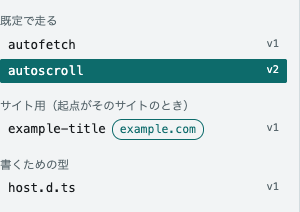
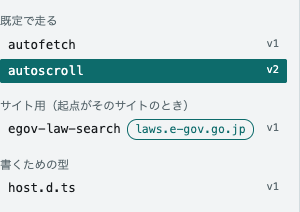
feat!: 代役のサイト用スクリプトを本物の egov-law-search に。docs は絵を代役で撮ったと書く (#43)
* feat!: 代役のサイト用スクリプトを本物の egov-law-search に（見本の example-title を消す）

代役（サンドボックス）だけに在った見本 example-title（札 example.com）で docs の絵を撮っていたので、
7080 で同じ起点を書いても出なかった。capture-scripts v0.4.0 の egov-law-search（札 laws.e-gov.go.jp）を
sandbox/catalog に写し、代役のスクリプトを全部 capture-scripts の写しにする（autofetch・autoscroll・
host.d.ts の写しも v0.4.0 とバイト列が同じ。egov-law-search の sha256 は本物の台帳の v1 と同じ
c9bc043c…）。sandbox/sites は無くなる。

- 台本の catalog と注記、代役の注記
- 試験（sandbox・start）の札の例を laws.e-gov.go.jp に。ポートを見ない・完全一致（www.e-gov.go.jp は別の
  ホスト）の確かめは同じ形のまま
- 撮る道具の start の絵の起点を https://laws.e-gov.go.jp/ に。全部撮り直して変わったのは start と scripts

反証: 代役の札を other.invalid にすると、試験が 5 本赤（scripts を省いた既定・一覧の口・既定の顔ぶれ・
合わない名指しの 400・既定が空の 400）。戻して 40 本とも緑。

Claude-Session: https://claude.ai/code/session_011kE2dP25YBdBgTbk1xgCeD

* docs: 「画面」の絵は代役で撮ったと書き、サイト用スクリプトの例を egov-law-search に

- 画面（ja・en）: 冒頭に、絵は代役（サンドボックス）を相手に撮っていて、代役のスクリプトは capture-scripts の
  写し（autoscroll v2 だけが代役の版）と 1 段落。札の例・理由の文・絵の alt を laws.e-gov.go.jp に。サイト用の
  スクリプトの見本（e-Gov 法令検索で法令名を「セキュリティ」で検索する）と、起点の書き方を 1 段落
- 開発（ja・en）: 代役の表の写しの出どころを capture-scripts v0.4.0 に、sandbox/sites と example-title を消す

Claude-Session: https://claude.ai/code/session_011kE2dP25YBdBgTbk1xgCeD

---------

Changed region(s): [[0.18, 0.5377, 0.87, 0.6792], [0.03, 0.5943, 0.15, 0.6509]]

diff --git a/sandbox/catalog/egov-law-search.ts b/sandbox/catalog/egov-law-search.ts
@@ -1,0 +1,62 @@
+/**
+ * e-Gov 法令検索 (`laws.e-gov.go.jp`) で法令名を検索し、答えの件数と法令名を報告する。
+ * サイト用のスクリプトの見本で、札は `laws.e-gov.go.jp` (`catalog.json`)。
+ *
+ * 頁は Vue の SPA で、読み込みの直後には検索窓がまだ無い —— 描かれるまで待つ。「検索」のボタンは
+ * `type="button"` で、押しても文書は替わらない (答えは `/internal-api/SelectLaw.json` から引き、
+ * 頁の中で `/result` に切り替わる)。取り込む文書は起点の頁のまま —— JS で頁を移ると、去った
+ * 文書は本文の無い応答として archive に残る。
+ *
+ * 設定は `__bh.opts["egov-law-search"]` から: query (既定 "セキュリティ") / waitMs (待つ上限。既定 10000)
+ */
+(async () => {
+  // 決まりはクロールの単位なので、リンクを辿って別のホストへ出た頁でも走る
+  if (location.hostname !== "laws.e-gov.go.jp") return;
+  const id = "egov-law-search";
+  const opts = globalThis.__bh.opts[id] ?? {};
+  const query = String(opts.query ?? "セキュリティ");
+  const waitMs = Number(opts.waitMs ?? 10000);
+  const sleep = (ms: number) => new Promise<void>((resolve) => setTimeout(resolve, ms));
+
+  /** find が null 以外を返すまで 100 ms ごとに見る。待つ上限か予算が尽きたら null */
+  const waitFor = async <T>(find: () => T | null): Promise<T | null> => {
+    const until = Date.now() + waitMs;
+    for (;;) {
+      const found = find();
+      if (found !== null) return found;
+      if (Date.now() > until || globalThis.__bh.remainingMs < 500) return null;
+      await sleep(100);
+    }
+  };
+
+  // 検索窓 (法令名) とボタン。Vue が描くまで待つ
+  const box = await waitFor(() =>
+    document.querySelector<HTMLInputElement>('form[role="search"] input.searchfield'),
+  );
+  const button = document.querySelector<HTMLButtonElement>('form[role="search"] button.searchbutton');
+  if (box === null || button === null) {
+    globalThis.__bh.report(id, { query, searched: false, why: "検索窓が無い" });
+    return;
+  }
+  // Vue の v-model は input の出来事で値を読む。value を替えるだけでは届かない
+  box.value = query;
+  box.dispatchEvent(new Event("input", { bubbles: true }));
+  button.click();
+
+  // 答え: <h1 class="numberofresults"> 検索結果: <strong>4</strong> 件 </h1> と a.lawtitle。/result に
+  // 切り替わった時点では <strong> が空で描かれ、答えが届くと数が入る (2026-10-29 に測って約 2 秒後)
+  const count = await waitFor(() => {
+    const strong = document.querySelector("h1.numberofresults strong");
+    return strong !== null && /\d/.test(strong.textContent ?? "") ? strong : null;
+  });
+  const laws = Array.from(
+    document.querySelectorAll("a.lawtitle"),
+    (a) => a.textContent?.replace(/\s+/g, " ").trim() ?? "",
+  );
+  globalThis.__bh.report(id, {
+    query,
+    searched: count !== null,
+    hits: count === null ? 0 : Number(count.textContent?.replace(/,/g, "") ?? 0),
+    laws: laws.slice(0, 5),
+  });
+})();

diff --git a/docs-site/src/content/docs/ja/development.md b/docs-site/src/content/docs/ja/development.md
@@ -87,10 +87,10 @@ dashboard が読む設定は `sandbox/sandbox.env` だけで、あなたの `.en
 | --- | --- |
 | 見せるものを変える | 台本を書き換える。代役は要求のたびに読むので、起こし直さずに画面に出る |
 | 台帳にスクリプトが無いときを見る | 台本の `"emptyCatalog"` を `true` にする。スクリプトの画面には受け皿の型だけが残る |
-| スクリプトを変える | 台本の `catalog` を書き換える。1 版に 1 つで、`sandbox/catalog/` のファイル（capture-scripts v0.2.1 のスクリプトと受け皿の型の写し）を名指す。`sha256` と `bytes` は代役が台帳と同じくファイルから数え、一覧は有効な各 id の最新版。autoscroll v2 は同じファイルで `options` だけが違う版。`sites`（札）のある版はサイト用のスクリプトで、既定で走るのは起点のどれかが札のホストにあるときだけ。見本の `example-title`（札 `example.com`）のファイルは `sandbox/sites/` に在る（capture-scripts には無い）。`hostTypes` は受け皿の型で、消すと型を取り込んでいない台帳になる。写しは `check:terms` から外してある（別の repo の言葉で、直すと行番号が実物とずれる） |
+| スクリプトを変える | 台本の `catalog` を書き換える。1 版に 1 つで、`sandbox/catalog/` のファイル（capture-scripts v0.4.0 のスクリプトと受け皿の型の写し）を名指す。`sha256` と `bytes` は代役が台帳と同じくファイルから数え、一覧は有効な各 id の最新版。autoscroll v2 は同じファイルで `options` だけが違う版。`sites`（札）のある版はサイト用のスクリプトで、既定で走るのは起点のどれかが札のホストにあるときだけ。`egov-law-search`（札 `laws.e-gov.go.jp`）も capture-scripts の写しで、本物の台帳と同じ版。`hostTypes` は受け皿の型で、消すと型を取り込んでいない台帳になる。写しは `check:terms` から外してある（別の repo の言葉で、直すと行番号が実物とずれる） |
 | 別の WACZ を並べる | `SANDBOX_WACZ_DIR=<dir> npm run sandbox`（相対なら、この repo から。例: `../wacz-validator/samples`）。代役と daemon の両方に同じ置き場が入る |
 | wacz-validator の更新を daemon に入れる | `npm run sandbox:build`。`npm run sandbox` は、image が無いときにしか建てない |
-| 新しいクロールの画面を試す | 新しいクロールの画面から始める。代役は受けた行を台本の `submit.runsSeconds` 秒だけ走らせてから完走にする。走っている間にもう 1 度押すと 409、読めない URL は 400。走らせるもの（スクリプトのチェックとその場の JS）も台帳と同じ形で受け、知らないスクリプトの id・同じ id の重ね・名前の綴り・起点に合わないサイト用のスクリプトの名指し・既定が空（台帳にスクリプトが無いか、全部が別のサイト用）は台帳と同じ文で 400。行を開くと走らせたものが出る。チェックの横の「読む」は右の列に開く（代役の autoscroll は v2 で設定つき、example-title は起点に example.com が無いと押せないが読める） |
+| 新しいクロールの画面を試す | 新しいクロールの画面から始める。代役は受けた行を台本の `submit.runsSeconds` 秒だけ走らせてから完走にする。走っている間にもう 1 度押すと 409、読めない URL は 400。走らせるもの（スクリプトのチェックとその場の JS）も台帳と同じ形で受け、知らないスクリプトの id・同じ id の重ね・名前の綴り・起点に合わないサイト用のスクリプトの名指し・既定が空（台帳にスクリプトが無いか、全部が別のサイト用）は台帳と同じ文で 400。行を開くと走らせたものが出る。チェックの横の「読む」は右の列に開く（代役の autoscroll は v2 で設定つき、egov-law-search は起点に laws.e-gov.go.jp が無いと押せないが読める） |
 | 規則を試す | 新しいクロールの画面で「リンクを辿る」を選ぶ。代役は台帳 v0.62.0 と同じく規則を確かめる（同じ 3 つの 400 を同じ文で、`/api/crawl-rules/check` も同じ答え）し、`/api/crawls/:id/decisions` にも答える。台本のクロール `5b0c0007` は `rules`・`decisions`・`robots` を持ち、1 度も当たらない規則が 1 本ある。**`same-site` は近似**: 代役は Public Suffix List を持たず、ホスト名の最後の 2 ラベルをサイトとする。だから `example.co.jp` と `other.co.jp` を同じサイトと読む（台帳は tldts で、そう読まない） |
 | 走らせたものの在る行を見る | 台本のクロールに `scripts` を書く（その場の物は `inline` つき）。同梱の台本には、その場の JS で完走した行と、compile の段で落ちた行が在る。代役も台帳と同じく、1 本の詳しい所には source を載せず、「欄に戻す」は名前の口（`/api/crawls/:id/inline/:name`）から取る。クロール `5b0c0008` の autoscroll の `sha256` はわざと台帳の v1 と違えてあり、版の番号が使い回されたときに、クロールの「読む」が出す知らせを見られる |
 

diff --git a/docs-site/src/content/docs/screens.md b/docs-site/src/content/docs/screens.md
@@ -9,6 +9,10 @@ what you are reading). The contents tab only appears once you
 enter it with 開く (open) on an archive row. The dashboard itself is in Japanese; the tab names are
 クロール, 新しいクロール, アーカイブ, スクリプト and 中身.
 
+The pictures on this page are taken against the stand-in ledger (the
+[sandbox](/development/#opening-the-dashboard-in-the-sandbox)). Its scripts are copies from capture-scripts,
+the same ones a real ledger lists; only autoscroll v2 is the stand-in's own version, there to show version chips.
+
 ![The tabs at the top: クロール, 新しいクロール, アーカイブ and スクリプト, with 新しいクロール selected](../../assets/screens/tabs.webp)
 
 | View | What it lists |
@@ -65,7 +69,7 @@ WACZ files and the time taken. "run ↗" at the right end opens the Windmill run
   version the crawl ran, and scripts written in the form marked その場 (written on the spot) with
   their size in bytes, each with a 欄に戻す (back to the form) button that takes you to the
   [new crawl view](#start-a-crawl). A site script carries its sites, as a chip such as
-  `example.com 用`. Last are the pages that failed, as many
+  `laws.e-gov.go.jp 用`. Last are the pages that failed, as many
   as the ledger returns; if none did, it says so and lists the seed URLs.
 - **An opened row also shows what the crawl's rules decided** (the ledger's
   `/api/crawls/:id/decisions`, fetched together with the detail). First, per rule, the distinct URLs it
@@ -100,7 +104,7 @@ page only) or リンクを辿る (follow links), and press 始める. The right 
 a window for reading a registered script, and, while リンクを辿る is chosen, to 辿り方 (how to
 follow).
 
-![The left column of the new crawl view: seed URLs, script checkboxes, this page only or follow links, and 始める](../../assets/screens/start.webp)
+![The left column of the new crawl view: the seed URL (e-Gov Law Search), script checkboxes including the site script egov-law-search, this page only or follow links, and 始める](../../assets/screens/start.webp)
 
 ① seed URLs\
 ② スクリプト (scripts): the checkboxes and 読む (read)\
@@ -123,11 +127,14 @@ follow).
   nor the script's name; the ledger says what is wrong with a 400, naming the ids it refused.
 - **A site script can be ticked only when a seed is on its site.** A script with sites can be
   ticked only while one of the seeds is on one of those hosts. The seed's hostname must match
-  exactly and its port is ignored (`example.com` and `www.example.com` are different hosts).
+  exactly and its port is ignored (`laws.e-gov.go.jp` and `www.e-gov.go.jp` are different hosts).
   Writing a seed ticks the site scripts that fit it; the others cannot be ticked and say why, as in
-  起点に example.com がありません (no seed on example.com). With no seed yet, they say
+  起点に laws.e-gov.go.jp がありません (no seed on laws.e-gov.go.jp). With no seed yet, they say
   起点を書くと選べます (write a seed to choose). A box you unticked stays unticked when the seeds
   change. The rule is the ledger's: naming a site script that fits no seed gets a 400 from it.
+  The example is `egov-law-search` from capture-scripts (sites `laws.e-gov.go.jp`), which searches law titles
+  for 「セキュリティ」 within [e-Gov Law Search](https://laws.e-gov.go.jp/); seed `https://laws.e-gov.go.jp/` to
+  choose it, as in the picture above.
 - **It shows the size before sending.** Under the box are the number of lines, the size of the body
   it will send (UTF-8 bytes) and how much of the limit that is. The limit is the one the writing
   route enforces, handed out by the server as `writeLimit` in `/healthz`. Over it, the line turns
@@ -251,7 +258,7 @@ capture server puts in the page for scripts to use. The default scripts and the 
 appear as checkboxes under スクリプト (scripts) in the [new crawl view](#start-a-crawl), where 読む
 (read) next to one opens it in the right column.
 
-![The list on the left of the scripts view: autofetch and autoscroll (open) run by default, the site script example-title with its chip example.com, and host.d.ts under 書くための型](../../assets/screens/scripts.webp)
+![The list on the left of the scripts view: autofetch and autoscroll (open) run by default, the site script egov-law-search with its chip laws.e-gov.go.jp, and host.d.ts under 書くための型](../../assets/screens/scripts.webp)
 
 On the right is the TypeScript as it was written, with line numbers.
 
@@ -269,8 +276,8 @@ On the right is the TypeScript as it was written, with line numbers.
   default one marked 既定. Under them are the line count, the size, the start of the sha256, the day
   it was imported, the options it is given (`{}` means the defaults written in the code), and
   whether it is the version that runs by default. A site script has its sites beside its name, and
-  its default version reads 起点に example.com があれば既定で走る版 (runs by default when a seed
-  is on example.com).
+  its default version reads 起点に laws.e-gov.go.jp があれば既定で走る版 (runs by default when a seed
+  is on laws.e-gov.go.jp).
 - **Sites mark a script that only makes sense on certain sites.** The sites (`sites`) are a list
   of hostnames, written in the `catalog.json` of
   [capture-scripts](https://github.com/uraitakahito/capture-scripts) and kept by the ledger with

diff --git a/docs-site/src/content/docs/development.md b/docs-site/src/content/docs/development.md
@@ -96,10 +96,10 @@ in `sandbox/samples/SOURCE.md`.
 | --- | --- |
 | change what it shows | edit the scenario. The stand-in reads it on every request, so the change reaches the screen without restarting anything |
 | see a ledger with no scripts | set `"emptyCatalog"` to `true` in the scenario. The scripts view then lists only the receptacle types |
-| change the scripts | edit the scenario's `catalog`: one entry per version, naming a file under `sandbox/catalog/` (copies of capture-scripts v0.2.1's scripts and receptacle types). The stand-in computes `sha256` and `bytes` from the file, as the ledger does, and its list is the newest enabled version of each id. autoscroll v2 is the same file with different `options`. A version with `sites` is a site script and runs by default only when a seed is on one of those hosts; the sample `example-title` (sites `example.com`) keeps its file under `sandbox/sites/` (it is not in capture-scripts). `hostTypes` is the receptacle types; remove it to see a ledger that has not imported them. The copies are left out of `check:terms`: they are another repository's words, and editing them would shift their line numbers |
+| change the scripts | edit the scenario's `catalog`: one entry per version, naming a file under `sandbox/catalog/` (copies of capture-scripts v0.4.0's scripts and receptacle types). The stand-in computes `sha256` and `bytes` from the file, as the ledger does, and its list is the newest enabled version of each id. autoscroll v2 is the same file with different `options`. A version with `sites` is a site script and runs by default only when a seed is on one of those hosts; `egov-law-search` (sites `laws.e-gov.go.jp`) is a capture-scripts copy too, the same version as a real ledger's. `hostTypes` is the receptacle types; remove it to see a ledger that has not imported them. The copies are left out of `check:terms`: they are another repository's words, and editing them would shift their line numbers |
 | list other WACZ files | `SANDBOX_WACZ_DIR=<dir> npm run sandbox` (relative to this repository, for example `../wacz-validator/samples`). The stand-in and the daemon both get the same directory |
 | put an updated wacz-validator into the daemon | `npm run sandbox:build`. `npm run sandbox` only builds the image when there is none |
-| try the new crawl view | Start a crawl from the new crawl view. The stand-in runs each crawl it accepts for the scenario's `submit.runsSeconds` seconds, then completes it. Pressing again while it runs gives a 409; a URL that cannot be read gives a 400. It takes `scripts` (ticked registered scripts and a script of your own) the way the ledger does, answers an unknown script id, the same id twice, a misspelt name, a site script that fits no seed, or an empty default (no scripts at all, or nothing that fits the seeds) with the ledger's 400, and lists what ran when you open the row. 読む (read) next to a checkbox opens the script in the right column (the stand-in's autoscroll is v2, with options; example-title cannot be ticked without an example.com seed, but can be read) |
+| try the new crawl view | Start a crawl from the new crawl view. The stand-in runs each crawl it accepts for the scenario's `submit.runsSeconds` seconds, then completes it. Pressing again while it runs gives a 409; a URL that cannot be read gives a 400. It takes `scripts` (ticked registered scripts and a script of your own) the way the ledger does, answers an unknown script id, the same id twice, a misspelt name, a site script that fits no seed, or an empty default (no scripts at all, or nothing that fits the seeds) with the ledger's 400, and lists what ran when you open the row. 読む (read) next to a checkbox opens the script in the right column (the stand-in's autoscroll is v2, with options; egov-law-search cannot be ticked without a laws.e-gov.go.jp seed, but can be read) |
 | try the rules | Choose リンクを辿る in the new crawl view. The stand-in checks the rules the way the ledger v0.62.0 does — the same three 400s with the same wording, the same answer from `/api/crawl-rules/check` — and answers `/api/crawls/:id/decisions`. Crawl `5b0c0007` in the scenario carries `rules`, `decisions` and `robots`, with one rule that never matched. **`same-site` is approximated**: the stand-in has no Public Suffix List and takes the last two labels of the host name as the site, so it reads `example.co.jp` and `other.co.jp` as one site (the ledger, with tldts, does not) |
 | see rows with scripts | Give a crawl in the scenario a `scripts` list (a script written on the spot carries `inline`). The bundled scenario has a crawl that ran one and completed, and one that failed at the compile step. Like the ledger, the stand-in leaves the source out of a crawl's detail, and "put back in the form" fetches it from the route by name (`/api/crawls/:id/inline/:name`). The `sha256` of crawl `5b0c0008`'s autoscroll differs from the ledger's v1 on purpose, to show the warning a crawl's "read" link gives when a version number has been reused |
 
